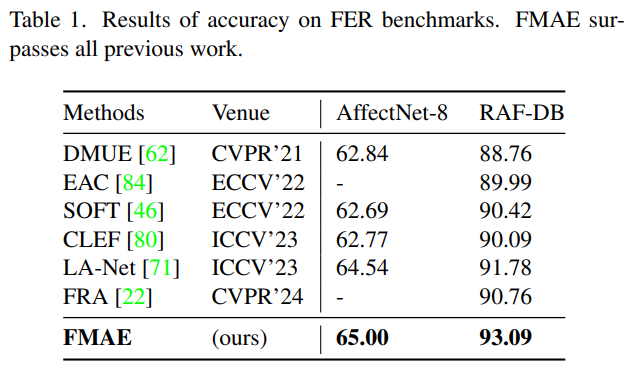
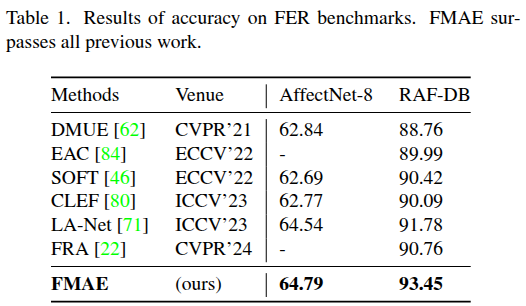
update README.md

Changed region(s): [[0.0913, 0.2353, 0.9125, 1.0], [0.0, 0.0294, 1.0, 0.1765]]

diff --git a/README.md b/README.md
@@ -123,9 +123,10 @@ To use code, checkout to branch `BP4D_and_BP4Dplus`
 (Note that branch `BP4D_ID_head_ablation` is used for ablation)
 
 we provide the FMAE-IAT model trained on BP4D below:
+
 | FMAE-IAT (ViT-large) | fold 1                                                                                         | fold 2                                                                                         | fold 3                                                                                         |
 |----------------------|------------------------------------------------------------------------------------------------|------------------------------------------------------------------------------------------------|------------------------------------------------------------------------------------------------|
-| finetuned ckpt            | [download](https://drive.google.com/file/d/1w5Gad9YKBJMgdyQ4Ax49WatAzZ7vgrKy/view?usp=sharing) | [download](https://drive.google.com/file/d/1aIY73NFEW0fObVIE6dh06CIi6HfH6T9u/view?usp=sharing) | [download](https://drive.google.com/file/d/1DzP1HrIOOxSYPhrffrRaFrCKeYkWpiPx/view?usp=sharing) |
+| finetuned ckpt       | [download](https://drive.google.com/file/d/1w5Gad9YKBJMgdyQ4Ax49WatAzZ7vgrKy/view?usp=sharing) | [download](https://drive.google.com/file/d/1aIY73NFEW0fObVIE6dh06CIi6HfH6T9u/view?usp=sharing) | [download](https://drive.google.com/file/d/1DzP1HrIOOxSYPhrffrRaFrCKeYkWpiPx/view?usp=sharing) |
 
 
 Our subject partitions of BP4D and DISFA follow the paper 'Multi-scale Promoted Self-adjusting Correlation Learning for Facial Action Unit Detection'
@@ -236,6 +237,12 @@ results
 
 ## Finetune FMAE on FER benchmarks
 
+we provide the FMAE models finetuned on RAF-DB and AffectNet-8 below:
+
+| RAF-DB                                                                                            | AffectNet-8                                                                                       |
+|---------------------------------------------------------------------------------------------------|---------------------------------------------------------------------------------------------------|
+| [download](https://drive.google.com/file/d/11wnX2oG1rkU8Vgnjgc1I7rQESxtyrFyj/view?usp=drive_link) | [download](https://drive.google.com/file/d/1g9qWvJt1IpyrTIByaIxtj-mdcwV9kezu/view?usp=drive_link) |
+
 
 ### RAF-DB
 
@@ -244,11 +251,11 @@ To use code, checkout to branch `RAFDB_finetune`
 finetune FMAE
 ```shell
 python RAFDB_finetune.py --seed 0/1/2 --blr 0.001 --nb_classes 7 \
---batch_size 32 --epochs 60 --warmup_epochs 6 \
+--batch_size 32 --epochs 60 --warmup_epochs 6 --smoothing 0.15 \
 --model vit_large_patch16 --finetune (ViT-large_ckpt) \
 --train_path TRAIN_IMG_FOLDER \
---test_path TEST_IMG_FOLDER \
---output_dir ./exp_RAFDB_finetune_vit_L --log_dir ./exp_RAFDB_finetune_vit_L
+--test_path VAL_IMG_FOLDER \
+--output_dir OUTPUT_FOLDER --log_dir OUTPUT_FOLDER
 ```
 
 
@@ -258,15 +265,15 @@ To use code, checkout to branch `AffectNet_finetune`
 finetune FMAE
 ```shell
 python AffectNet_finetune.py --seed 0/1/2  --nb_classes 8 \
---blr 0.0005 --batch_size 64 --accum_iter 1 --epochs 30 --warmup_epochs 3 \
+--blr 0.0005 --batch_size 64 --accum_iter 1 --epochs 30 --warmup_epochs 1 --smoothing 0.2 --mixup 0.25 \
 --model vit_large_patch16 --finetune (ViT-large_ckpt) \
 --train_path TRAIN_IMG_FOLDER \
---test_path TEST_IMG_FOLDER \
---output_dir ./exp_AffectNet8_finetune_vit_L --log_dir ./exp_AffectNet8_finetune_vit_L
+--test_path VAL_IMG_FOLDER \
+--output_dir OUTPUT_FOLDER --log_dir OUTPUT_FOLDER
 ```
 
 <p align="left">
-  <img src="figures/FER_results.png" width='50%' height='50%'/>
+  <img src="figures/FER_results.png" width='40%' height='40%'/>
 </p>
 
 
